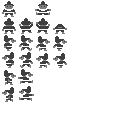
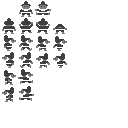
Implemented starts of sprite animation that uses sequencer.

Changed region(s): [[0.0, 0.0, 0.2812, 0.1562]]

diff --git a/project/src/game/sdl/spriteset.c b/project/src/game/sdl/spriteset.c
@@ -4,24 +4,6 @@
 const byte SpriteSet[NUMBER_OF_SPRITE_FRAMES][SPRITE_WIDTH][SPRITE_HEIGHT] =
 {
 	{
-		{0, 0, 0, 0, 0, 0, 0, 2, 2, 0, 0, 0, 0, 0, 0, 0},	// |.......22.......|
-		{0, 0, 0, 0, 0, 0, 2, 2, 2, 2, 0, 0, 0, 0, 0, 0},	// |......2222......|
-		{0, 0, 0, 0, 0, 0, 2, 2, 2, 2, 0, 0, 0, 0, 0, 0},	// |......2222......|
-		{0, 0, 0, 0, 2, 2, 2, 2, 2, 2, 2, 2, 0, 0, 0, 0},	// |....22222222....|
-		{0, 0, 0, 2, 2, 3, 3, 3, 3, 3, 3, 2, 2, 0, 0, 0},	// |...2233333322...|
-		{0, 0, 0, 1, 3, 3, 2, 3, 3, 2, 3, 3, 1, 0, 0, 0},	// |...1332332331...|
-		{0, 0, 0, 1, 3, 3, 3, 3, 3, 3, 3, 3, 1, 0, 0, 0},	// |...1333333331...|
-		{0, 0, 0, 1, 1, 3, 3, 3, 3, 3, 3, 1, 1, 0, 0, 0},	// |...1133333311...|
-		{0, 0, 0, 2, 1, 1, 1, 1, 1, 1, 1, 1, 2, 0, 0, 0},	// |...2111111112...|
-		{0, 0, 2, 2, 2, 2, 1, 1, 1, 1, 2, 2, 2, 2, 0, 0},	// |..222211112222..|
-		{0, 0, 2, 2, 2, 2, 2, 2, 2, 2, 2, 2, 2, 2, 0, 0},	// |..222222222222..|
-		{0, 3, 3, 0, 1, 1, 1, 1, 1, 1, 1, 1, 0, 3, 3, 0},	// |.33.11111111.33.|
-		{0, 3, 3, 0, 2, 2, 2, 2, 2, 2, 2, 2, 0, 3, 3, 0},	// |.33.22222222.33.|
-		{0, 0, 0, 0, 2, 2, 2, 0, 0, 2, 2, 2, 0, 0, 0, 0},	// |....222..222....|
-		{0, 0, 0, 0, 3, 3, 0, 0, 0, 0, 3, 3, 0, 0, 0, 0},	// |....33....33....|
-		{0, 0, 0, 3, 3, 3, 0, 0, 0, 0, 3, 3, 3, 0, 0, 0}	// |...333....333...|
-	},
-	{
 		{0, 0, 0, 0, 0, 0, 0, 0, 0, 0, 0, 0, 0, 0, 0, 0},	// |................|
 		{0, 0, 0, 0, 0, 0, 0, 0, 0, 0, 0, 0, 0, 0, 0, 0},	// |................|
 		{0, 0, 0, 0, 0, 0, 0, 0, 0, 0, 0, 0, 0, 0, 0, 0},	// |................|
@@ -38,6 +20,24 @@ const byte SpriteSet[NUMBER_OF_SPRITE_FRAMES][SPRITE_WIDTH][SPRITE_HEIGHT] =
 		{0, 0, 0, 0, 0, 0, 0, 0, 0, 0, 0, 0, 0, 0, 0, 0},	// |................|
 		{0, 0, 0, 0, 0, 0, 0, 0, 0, 0, 0, 0, 0, 0, 0, 0},	// |................|
 		{0, 0, 0, 0, 0, 0, 0, 0, 0, 0, 0, 0, 0, 0, 0, 0}	// |................|
+	},
+	{
+		{0, 0, 0, 0, 0, 0, 0, 2, 2, 0, 0, 0, 0, 0, 0, 0},	// |.......22.......|
+		{0, 0, 0, 0, 0, 0, 2, 2, 2, 2, 0, 0, 0, 0, 0, 0},	// |......2222......|
+		{0, 0, 0, 0, 0, 0, 2, 2, 2, 2, 0, 0, 0, 0, 0, 0},	// |......2222......|
+		{0, 0, 0, 0, 2, 2, 2, 2, 2, 2, 2, 2, 0, 0, 0, 0},	// |....22222222....|
+		{0, 0, 0, 2, 2, 3, 3, 3, 3, 3, 3, 2, 2, 0, 0, 0},	// |...2233333322...|
+		{0, 0, 0, 1, 3, 3, 2, 3, 3, 2, 3, 3, 1, 0, 0, 0},	// |...1332332331...|
+		{0, 0, 0, 1, 3, 3, 3, 3, 3, 3, 3, 3, 1, 0, 0, 0},	// |...1333333331...|
+		{0, 0, 0, 1, 1, 3, 3, 3, 3, 3, 3, 1, 1, 0, 0, 0},	// |...1133333311...|
+		{0, 0, 0, 2, 1, 1, 1, 1, 1, 1, 1, 1, 2, 0, 0, 0},	// |...2111111112...|
+		{0, 0, 2, 2, 2, 2, 1, 1, 1, 1, 2, 2, 2, 2, 0, 0},	// |..222211112222..|
+		{0, 0, 2, 2, 2, 2, 2, 2, 2, 2, 2, 2, 2, 2, 0, 0},	// |..222222222222..|
+		{0, 3, 3, 0, 1, 1, 1, 1, 1, 1, 1, 1, 0, 3, 3, 0},	// |.33.11111111.33.|
+		{0, 3, 3, 0, 2, 2, 2, 2, 2, 2, 2, 2, 0, 3, 3, 0},	// |.33.22222222.33.|
+		{0, 0, 0, 0, 2, 2, 2, 0, 0, 2, 2, 2, 0, 0, 0, 0},	// |....222..222....|
+		{0, 0, 0, 0, 3, 3, 0, 0, 0, 0, 3, 3, 0, 0, 0, 0},	// |....33....33....|
+		{0, 0, 0, 3, 3, 3, 0, 0, 0, 0, 3, 3, 3, 0, 0, 0}	// |...333....333...|
 	},
 	{
 		{0, 0, 0, 0, 0, 0, 0, 2, 2, 0, 0, 0, 0, 0, 0, 0},	// |.......22.......|

diff --git a/project/src/game/c64/spriteset.c b/project/src/game/c64/spriteset.c
@@ -4,6 +4,30 @@
 const byte SpriteSet[NUMBER_OF_SPRITE_FRAMES][64] =
 {
 	{
+		0, 0, 0,         // |000000000000000000000000|
+		0, 0, 0,         // |000000000000000000000000|
+		0, 0, 0,         // |000000000000000000000000|
+		0, 0, 0,         // |000000000000000000000000|
+		0, 0, 0,         // |000000000000000000000000|
+		0, 0, 0,         // |000000000000000000000000|
+		0, 0, 0,         // |000000000000000000000000|
+		0, 0, 0,         // |000000000000000000000000|
+		0, 0, 0,         // |000000000000000000000000|
+		0, 0, 0,         // |000000000000000000000000|
+		0, 0, 0,         // |000000000000000000000000|
+		0, 0, 0,         // |000000000000000000000000|
+		0, 0, 0,         // |000000000000000000000000|
+		0, 0, 0,         // |000000000000000000000000|
+		0, 0, 0,         // |000000000000000000000000|
+		0, 0, 0,         // |000000000000000000000000|
+		0, 0, 0,         // |000000000000000000000000|
+		0, 0, 0,         // |000000000000000000000000|
+		0, 0, 0,         // |000000000000000000000000|
+		0, 0, 0,         // |000000000000000000000000|
+		0, 0, 0,         // |000000000000000000000000|
+		0                // Unused byte.
+	},
+	{
 		2, 128, 0,       // |000000101000000000000000|
 		2, 128, 0,       // |000000101000000000000000|
 		2, 128, 0,       // |000000101000000000000000|
@@ -20,30 +44,6 @@ const byte SpriteSet[NUMBER_OF_SPRITE_FRAMES][64] =
 		8, 32, 0,        // |000010000010000000000000|
 		12, 48, 0,       // |000011000011000000000000|
 		60, 60, 0,       // |001111000011110000000000|
-		0, 0, 0,         // |000000000000000000000000|
-		0, 0, 0,         // |000000000000000000000000|
-		0, 0, 0,         // |000000000000000000000000|
-		0, 0, 0,         // |000000000000000000000000|
-		0, 0, 0,         // |000000000000000000000000|
-		0                // Unused byte.
-	},
-	{
-		0, 0, 0,         // |000000000000000000000000|
-		0, 0, 0,         // |000000000000000000000000|
-		0, 0, 0,         // |000000000000000000000000|
-		0, 0, 0,         // |000000000000000000000000|
-		0, 0, 0,         // |000000000000000000000000|
-		0, 0, 0,         // |000000000000000000000000|
-		0, 0, 0,         // |000000000000000000000000|
-		0, 0, 0,         // |000000000000000000000000|
-		0, 0, 0,         // |000000000000000000000000|
-		0, 0, 0,         // |000000000000000000000000|
-		0, 0, 0,         // |000000000000000000000000|
-		0, 0, 0,         // |000000000000000000000000|
-		0, 0, 0,         // |000000000000000000000000|
-		0, 0, 0,         // |000000000000000000000000|
-		0, 0, 0,         // |000000000000000000000000|
-		0, 0, 0,         // |000000000000000000000000|
 		0, 0, 0,         // |000000000000000000000000|
 		0, 0, 0,         // |000000000000000000000000|
 		0, 0, 0,         // |000000000000000000000000|

diff --git a/project/src/puzl/sdl/sprites.c b/project/src/puzl/sdl/sprites.c
@@ -4,6 +4,7 @@
 
 #include <puzl.h>
 #include <sdl/color.h>
+#include <sdl/sequencer.h>
 
 SDL_Texture* SpriteSetTextures[NUMBER_OF_SPRITE_COLORS];
 
@@ -20,6 +21,8 @@ void PopulateSpriteSurfaceFromSprite(SDL_Surface* spriteSurface, unsigned int sp
 
 void DrawSpriteFrame(int x, int y, unsigned int spriteFrameIndex, byte primaryColorCode);
 
+void ProcessSpriteAnimationDatum(unsigned int sequenceIndex, byte sequenceFetchDatum);
+
 void CheckSpriteCollision(byte spriteIndex, ScreenPoint* tempSpritePosition);
 
 void InitializeSprites(void)
@@ -28,6 +31,10 @@ void InitializeSprites(void)
 
 	// Sprite controls.
 	memset(Sprites, 0, NUMBER_OF_SPRITES * sizeof(Sprite));
+
+	// Initialize animation.
+	ProcessSequenceDatum[SEQUENCE_TYPE_ANIMATION] = &ProcessSpriteAnimationDatum;
+	OnSequenceSegmentEnd[SEQUENCE_TYPE_ANIMATION] = NULL;
 }
 
 void ShutdownSprites(void)
@@ -317,4 +324,34 @@ void SetSpriteSeconaryColor(byte colorCode)
 void SetSpriteTertiaryColor(byte colorCode)
 {
 	SpriteNonPrimaryColorCodes[1] = colorCode;
+}
+
+void PlaySpriteAnimation(byte spriteIndex, const byte* animationStart, byte looping)
+{
+	// TODO: Properly determine sequence from sprite index.
+	PlaySequence(spriteIndex + 3, animationStart, looping);
+}
+
+void StopSpriteAnimation(byte spriteIndex)
+{
+	StopSequence(spriteIndex);
+}
+
+void ProcessSpriteAnimationDatum(unsigned int sequenceIndex, byte sequenceFetchDatum)
+{
+	byte spriteIndex = sequenceIndex - 3; // TODO: Properly determine sprite index from sequence index.
+
+	// Cutoff bit 7.
+	// The first seven bits of this byte are the animation frame index.
+	SetSpriteFrameIndex(spriteIndex, sequenceFetchDatum & 0x7f); // %01111111
+
+	// Now check bit 7.
+	if ((sequenceFetchDatum & 0x80) != 0) // %10000000
+	{
+		// Fetch and store next byte.
+		// Increase music pointer.
+		SequenceSegmentDuration[sequenceIndex] = SequenceStart[sequenceIndex][++SequencePosition[sequenceIndex]];
+	}
+
+	SequenceSegmentDurationCounter[sequenceIndex] = SequenceSegmentDuration[sequenceIndex];
 }

diff --git a/project/src/puzl/sdl/sequencer.c b/project/src/puzl/sdl/sequencer.c
@@ -16,14 +16,30 @@ SequenceType SequenceTypes[NUMBER_OF_SEQUENCES] =
 {
 	SEQUENCE_TYPE_MUSIC,
 	SEQUENCE_TYPE_MUSIC,
-	SEQUENCE_TYPE_MUSIC
+	SEQUENCE_TYPE_MUSIC,
+	SEQUENCE_TYPE_ANIMATION,
+	SEQUENCE_TYPE_ANIMATION,
+	SEQUENCE_TYPE_ANIMATION,
+	SEQUENCE_TYPE_ANIMATION,
+	SEQUENCE_TYPE_ANIMATION,
+	SEQUENCE_TYPE_ANIMATION,
+	SEQUENCE_TYPE_ANIMATION,
+	SEQUENCE_TYPE_ANIMATION
 };
 
 unsigned int SequenceChannelIds[NUMBER_OF_SEQUENCES] =
 {
 	0,
 	1,
-	2
+	2,
+	0,
+	1,
+	2,
+	3,
+	4,
+	5,
+	6,
+	7
 };
 
 void (*ProcessSequenceDatum[NUMBER_OF_SEQUENCE_TYPES])(unsigned int channelId, byte sequenceFetchDatum) =
@@ -71,12 +87,8 @@ void PlaySequence(byte sequenceIndex, const byte* sequenceStart, byte looping)
 // ---------------------------------------
 void StopSequence(byte sequenceIndex)
 {
-	// Disable all sequence processing.
-	for (sequenceIndex = 0; sequenceIndex < NUMBER_OF_SEQUENCES; ++sequenceIndex)
-	{
-		SequenceSegmentDurationCounter[sequenceIndex] = 0;
-		SequenceStatus[sequenceIndex] = 0;
-	}
+	SequenceSegmentDurationCounter[sequenceIndex] = 0;
+	SequenceStatus[sequenceIndex] = 0;
 }
 
 // Start of sequence processing.
@@ -96,6 +108,8 @@ void ProcessSequences(void)
 
 void ProcessSequence(unsigned int sequenceIndex)
 {
+	void (*onSequenceSegmentEnd)(unsigned int channelId);
+
 	if (SequenceSegmentDurationCounter[sequenceIndex] == 0)
 	{
 		ProcessSequenceData(sequenceIndex);
@@ -107,7 +121,11 @@ void ProcessSequence(unsigned int sequenceIndex)
 	}
 	else
 	{
-		OnSequenceSegmentEnd[SequenceTypes[sequenceIndex]](SequenceChannelIds[sequenceIndex]);
+		onSequenceSegmentEnd = OnSequenceSegmentEnd[SequenceTypes[sequenceIndex]];
+		if (onSequenceSegmentEnd != NULL)
+		{
+			onSequenceSegmentEnd(SequenceChannelIds[sequenceIndex]);
+		}
 
 		SequenceSegmentDurationCounter[sequenceIndex] = 0;
 	}

diff --git a/project/src/game/tjld.c b/project/src/game/tjld.c
@@ -4,6 +4,8 @@
 
 #include <puzl.h>
 
+#include <dwarf.h>
+
 #define CHARACTER_BLOCK 219
 
 #define PLAYER_SPRITE_INDEX 1
@@ -61,8 +63,9 @@ void InitializeNodeTree(void)
 
 	EnableSprite(PLAYER_SPRITE_INDEX, 1);
 	SetSpritePosition(PLAYER_SPRITE_INDEX, 8 + 0, SCREEN_HEIGHT - SPRITE_HEIGHT - TILE_HEIGHT);
-	SetSpriteFrameIndex(PLAYER_SPRITE_INDEX, 0);
+	SetSpriteFrameIndex(PLAYER_SPRITE_INDEX, 1);
 	SetSpriteColor(PLAYER_SPRITE_INDEX, COLOR_RED);
+	PlaySpriteAnimation(PLAYER_SPRITE_INDEX, DwarfWalkRightAnimation, 1);
 
 	CheckSpriteTile();
 
@@ -157,22 +160,9 @@ void CheckSpriteTile(void)
 			case COLOR_YELLOW:
 			{
 				Score += 1;
-				if (Score >= 8)
-				{
-					Running = 0;
-				}
-				else
-				{
-					AddNewPickup();
 
-					SetTileMapCellShape(SpriteTilePosition.x, SpriteTilePosition.y, 0);
-				}
-
-				#ifndef __CC65__
-				// TODO: Figure this out.
-				printf("Score: %d", Score);
-				printf("\n");
-				#endif
+				AddNewPickup();
+				SetTileMapCellShape(SpriteTilePosition.x, SpriteTilePosition.y, 0);
 
 				SetBackgroundColor(COLOR_GREY_1);
 

diff --git a/project/src/puzl/video.h b/project/src/puzl/video.h
@@ -50,5 +50,7 @@ void FASTCALL SetSpriteFrameIndex(byte spriteIndex, byte frameIndex);
 void FASTCALL SetSpriteColor(byte spriteIndex, byte colorCode);
 void FASTCALL SetSpriteSeconaryColor(byte colorCode);
 void FASTCALL SetSpriteTertiaryColor(byte colorCode);
+void FASTCALL PlaySpriteAnimation(byte spriteIndex, const byte* animationStart, byte looping);
+void FASTCALL StopSpriteAnimation(byte spriteIndex);
 
 #endif

diff --git a/project/src/puzl/sdl/sequencer.h b/project/src/puzl/sdl/sequencer.h
@@ -3,6 +3,7 @@
 
 #include <core.h>
 #include <sdl/audio.h>
+#include <sdl/video.h>
 
 typedef enum
 {
@@ -12,7 +13,7 @@ typedef enum
 	NUMBER_OF_SEQUENCE_TYPES
 } SequenceType;
 
-#define NUMBER_OF_SEQUENCES  (NUMBER_OF_VOICES)
+#define NUMBER_OF_SEQUENCES (NUMBER_OF_VOICES + NUMBER_OF_SPRITES)
 
 extern const byte* SequenceStart[NUMBER_OF_SEQUENCES];
 

diff --git a/project/src/puzl/c64/video.c b/project/src/puzl/c64/video.c
@@ -28,3 +28,13 @@ void ClearTileMapCollisionCodes(void)
 		TileMapCollisionCodes[index] = 0;
 	}
 }
+
+void PlaySpriteAnimation(byte spriteIndex, const byte* animationStart, byte looping)
+{
+	
+}
+
+void StopSpriteAnimation(byte spriteIndex)
+{
+
+}

diff --git a/project/src/game/dwarf.c b/project/src/game/dwarf.c
@@ -1,0 +1,9 @@
+#include <dwarf.h>
+
+#include <puzl.h>
+
+const byte DwarfWalkRightAnimation[] =
+{
+	0x80 | 14, 4, 15, 16, 17,
+	0x00
+};

diff --git a/project/src/game/dwarf.h b/project/src/game/dwarf.h
@@ -1,0 +1,8 @@
+#ifndef DWARF_H
+#define DWARF_H
+
+#include <puzl.h>
+
+extern const byte DwarfWalkRightAnimation[];
+
+#endif
